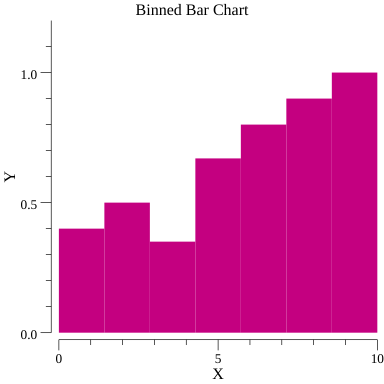
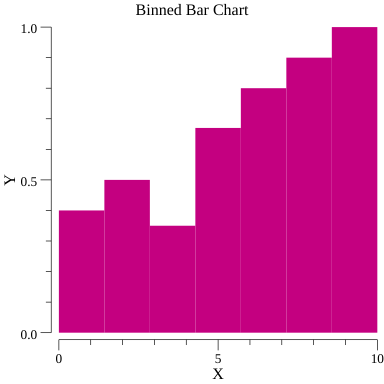
Adding DataRanger()

diff --git a/barplotter/main.go b/barplotter/main.go
@@ -45,10 +45,10 @@ func main() {
 	p.Add(bs)
 
 	// Range
-	p.X.Min = 0
-	p.X.Max = 10
-	p.Y.Min = 0
-	p.Y.Max = 1.2
+	//p.X.Min = 0
+	//p.X.Max = 10
+	//p.Y.Min = 0
+	//p.Y.Max = 1.2
 	
 	// Save the plot
 	if err := p.Save(4*vg.Inch, 4*vg.Inch, "BinnedBars.png"); err != nil {
@@ -91,6 +91,16 @@ func (bs *BinnedBars) Plot(c draw.Canvas, plt *plot.Plot) {
 
 		c.FillPolygon(bs.Color, c.ClipPolygonXY(pts))
 	}
+}
+
+// DataRange implements the DataRange method
+// of the plot.DataRanger interface.
+func (bs *BinnedBars) DataRange() (xmin, xmax, ymin, ymax float64) {
+	catMin := 0. // min(bs.Values)
+	catMax := 1. // max(bs.Values)
+	valMin := bs.Binning[0][0]
+	valMax := bs.Binning[len(bs.Binning)-1][1]
+	return valMin, valMax, catMin, catMax
 }
 
 // Simple binning type
